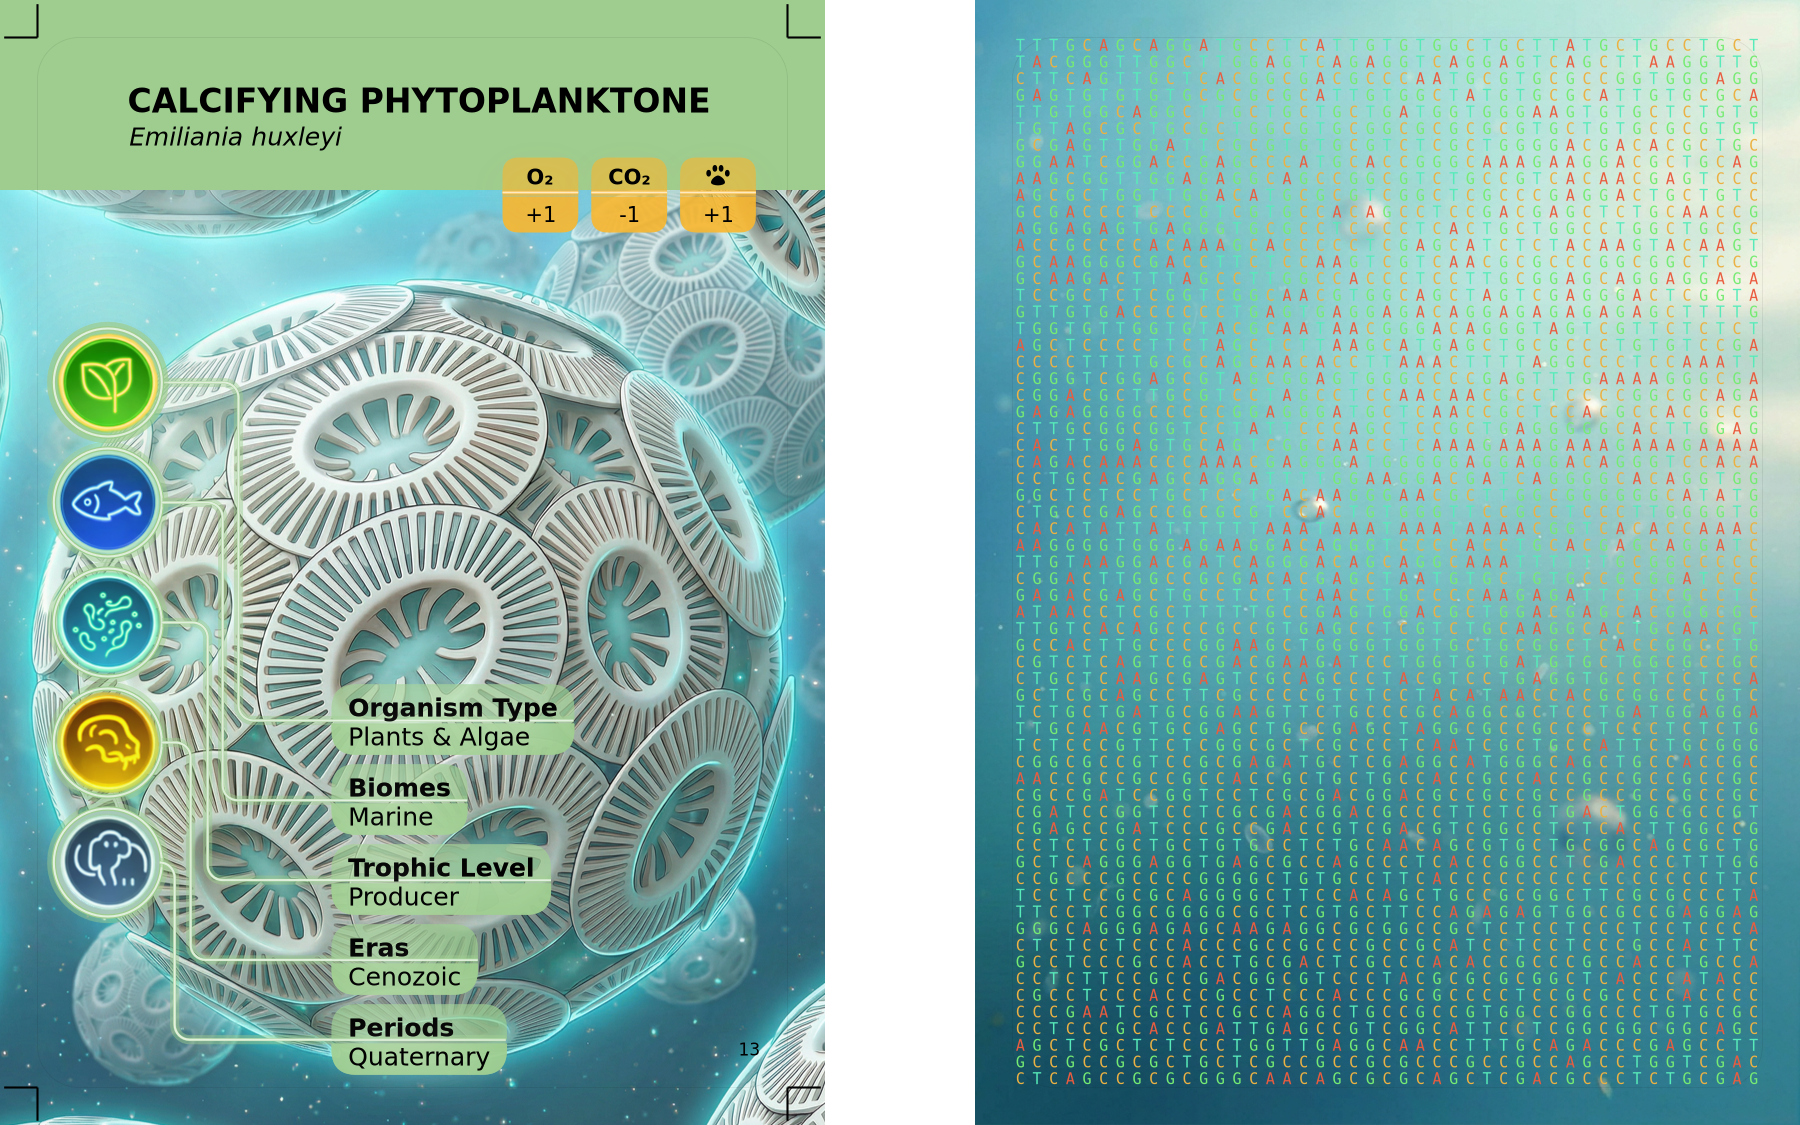
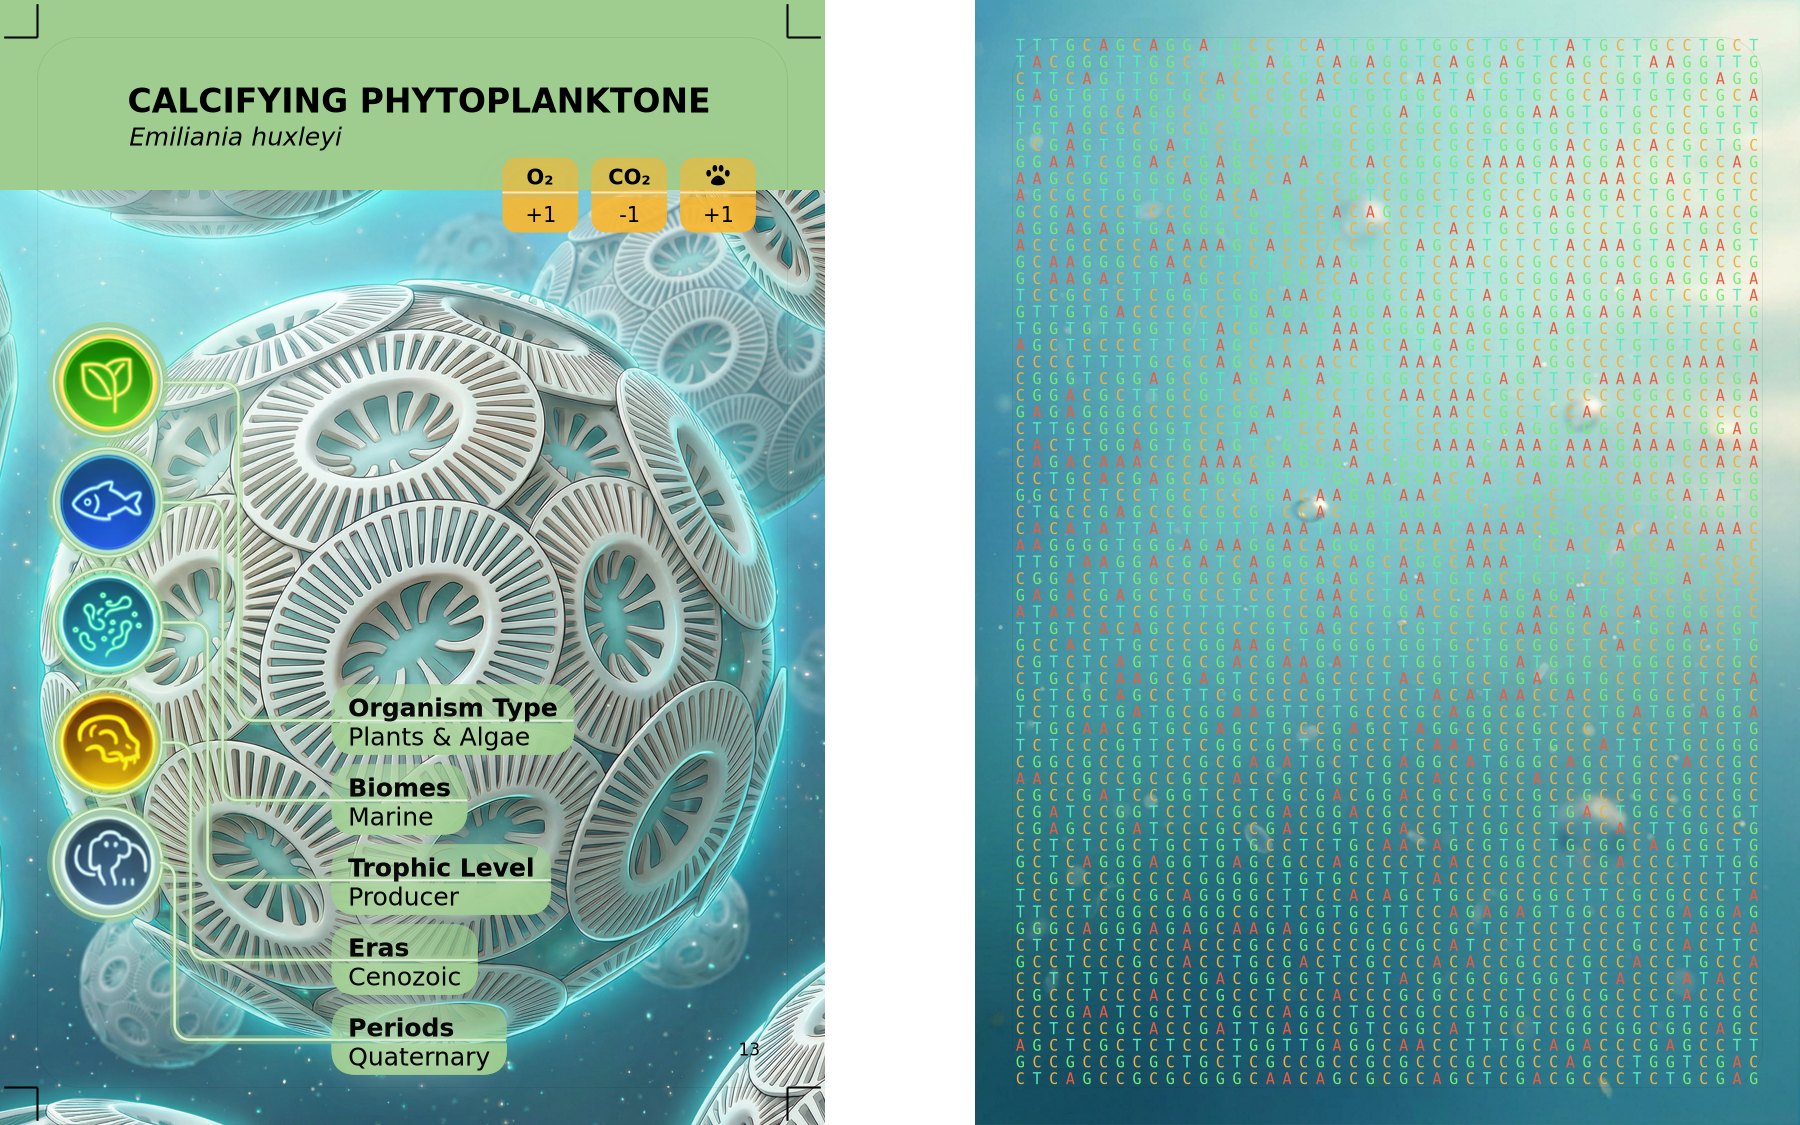
Update manifest and adjust layout for Card 13

diff --git a/game/lib/cards/layout-png.js b/game/lib/cards/layout-png.js
@@ -179,6 +179,9 @@ async function drawCardPNG(ctx, xPt, yPt, card, scale, options = {}) {
     if (isCard12) {
       mainPhotoY -= 40;
     }
+    if (isCard13) {
+      mainPhotoY += 3;
+    }
     if (isCard21) {
       mainPhotoX += 25;
     }
@@ -230,7 +233,7 @@ async function drawCardPNG(ctx, xPt, yPt, card, scale, options = {}) {
     } else if (isCard3) {
       mainPhotoOptions.photoScaleMultiplier = 1.10;
     } else if (isCard13) {
-      mainPhotoOptions.photoScaleMultiplier = 0.96;
+      mainPhotoOptions.photoScaleMultiplier = 0.94;
     } else if (isCard4) {
       mainPhotoOptions.photoScaleMultiplier = 1.00;
     } else if (isCard21) {
